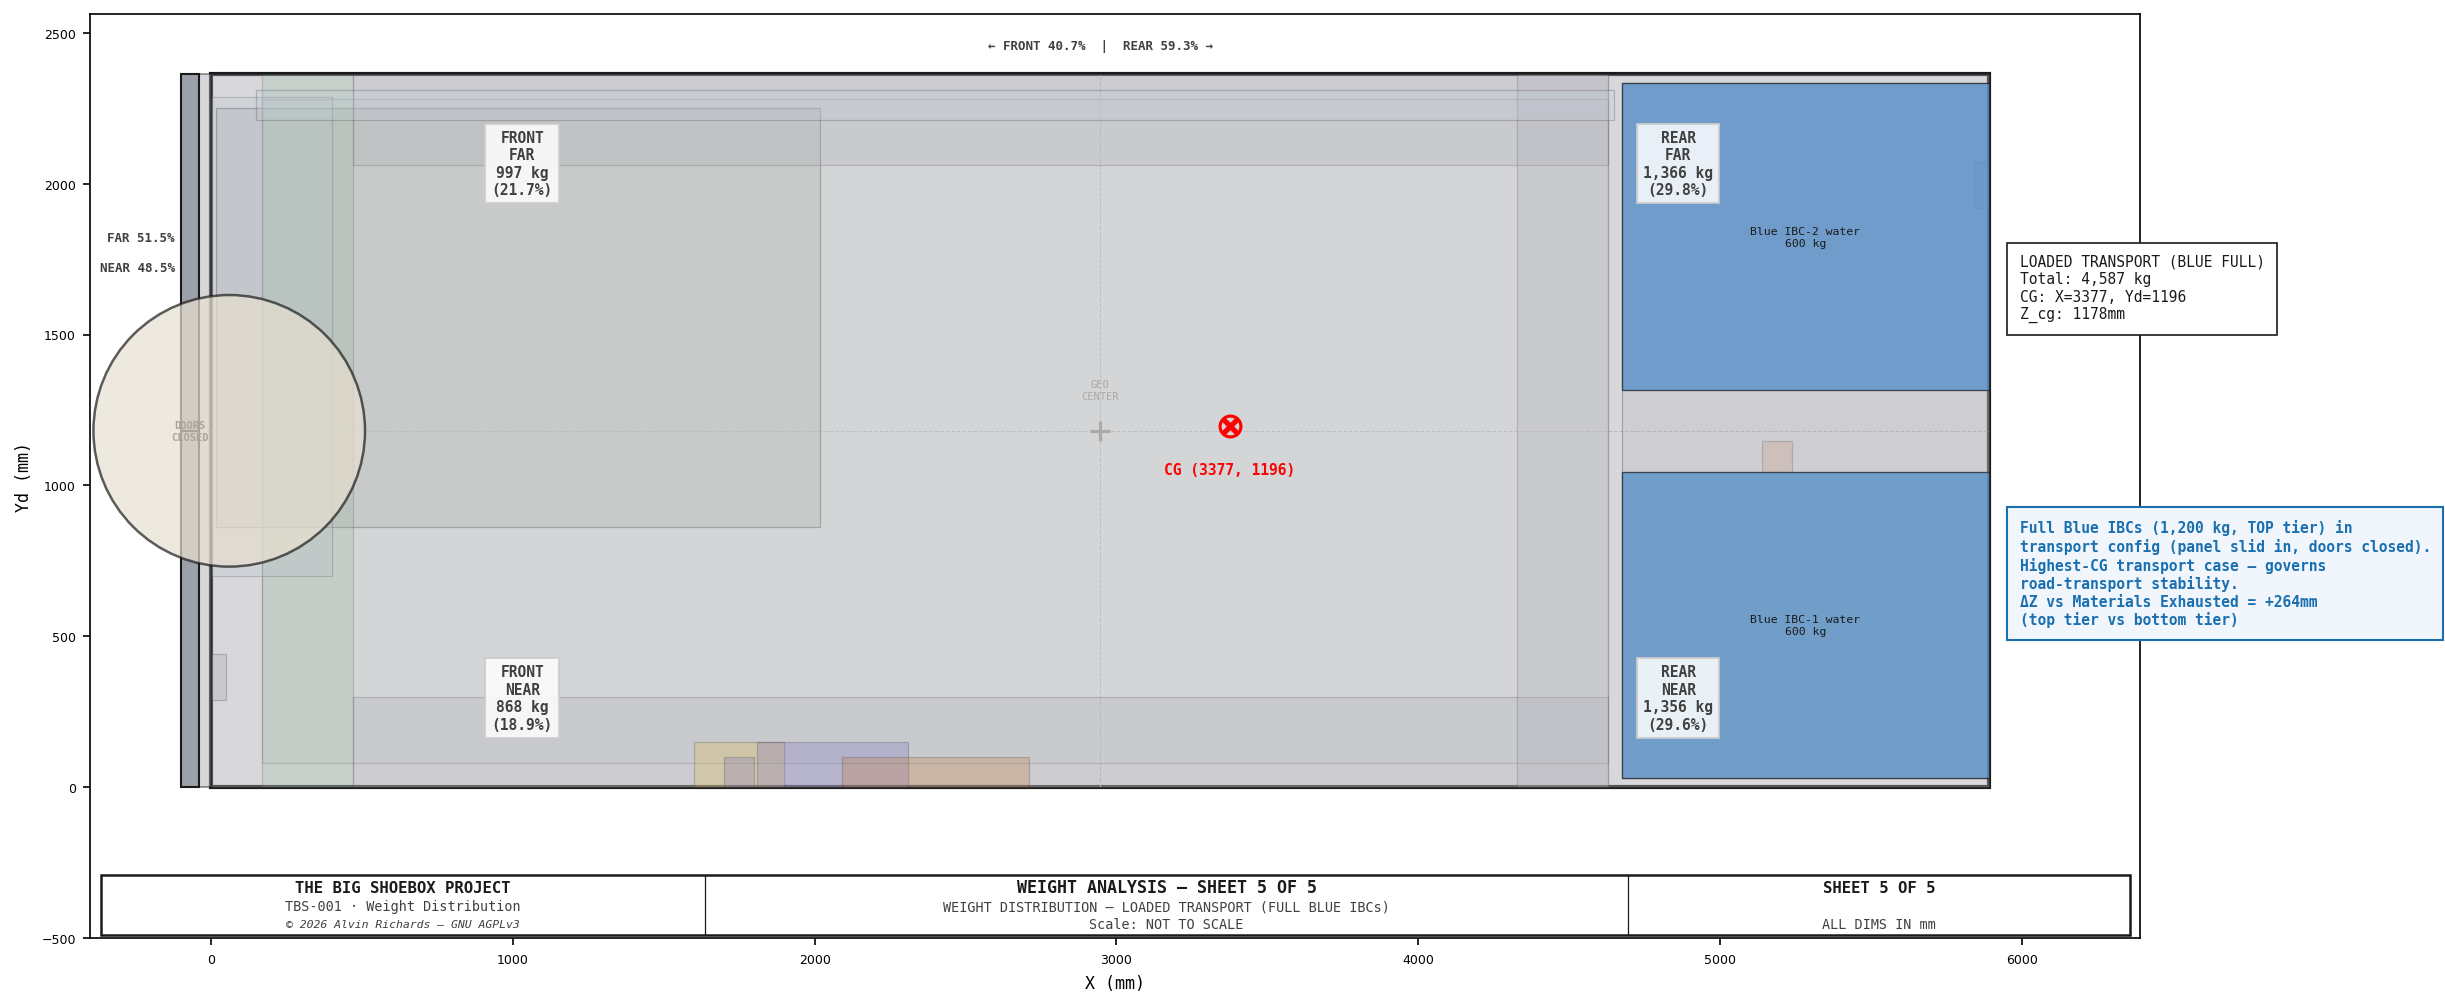
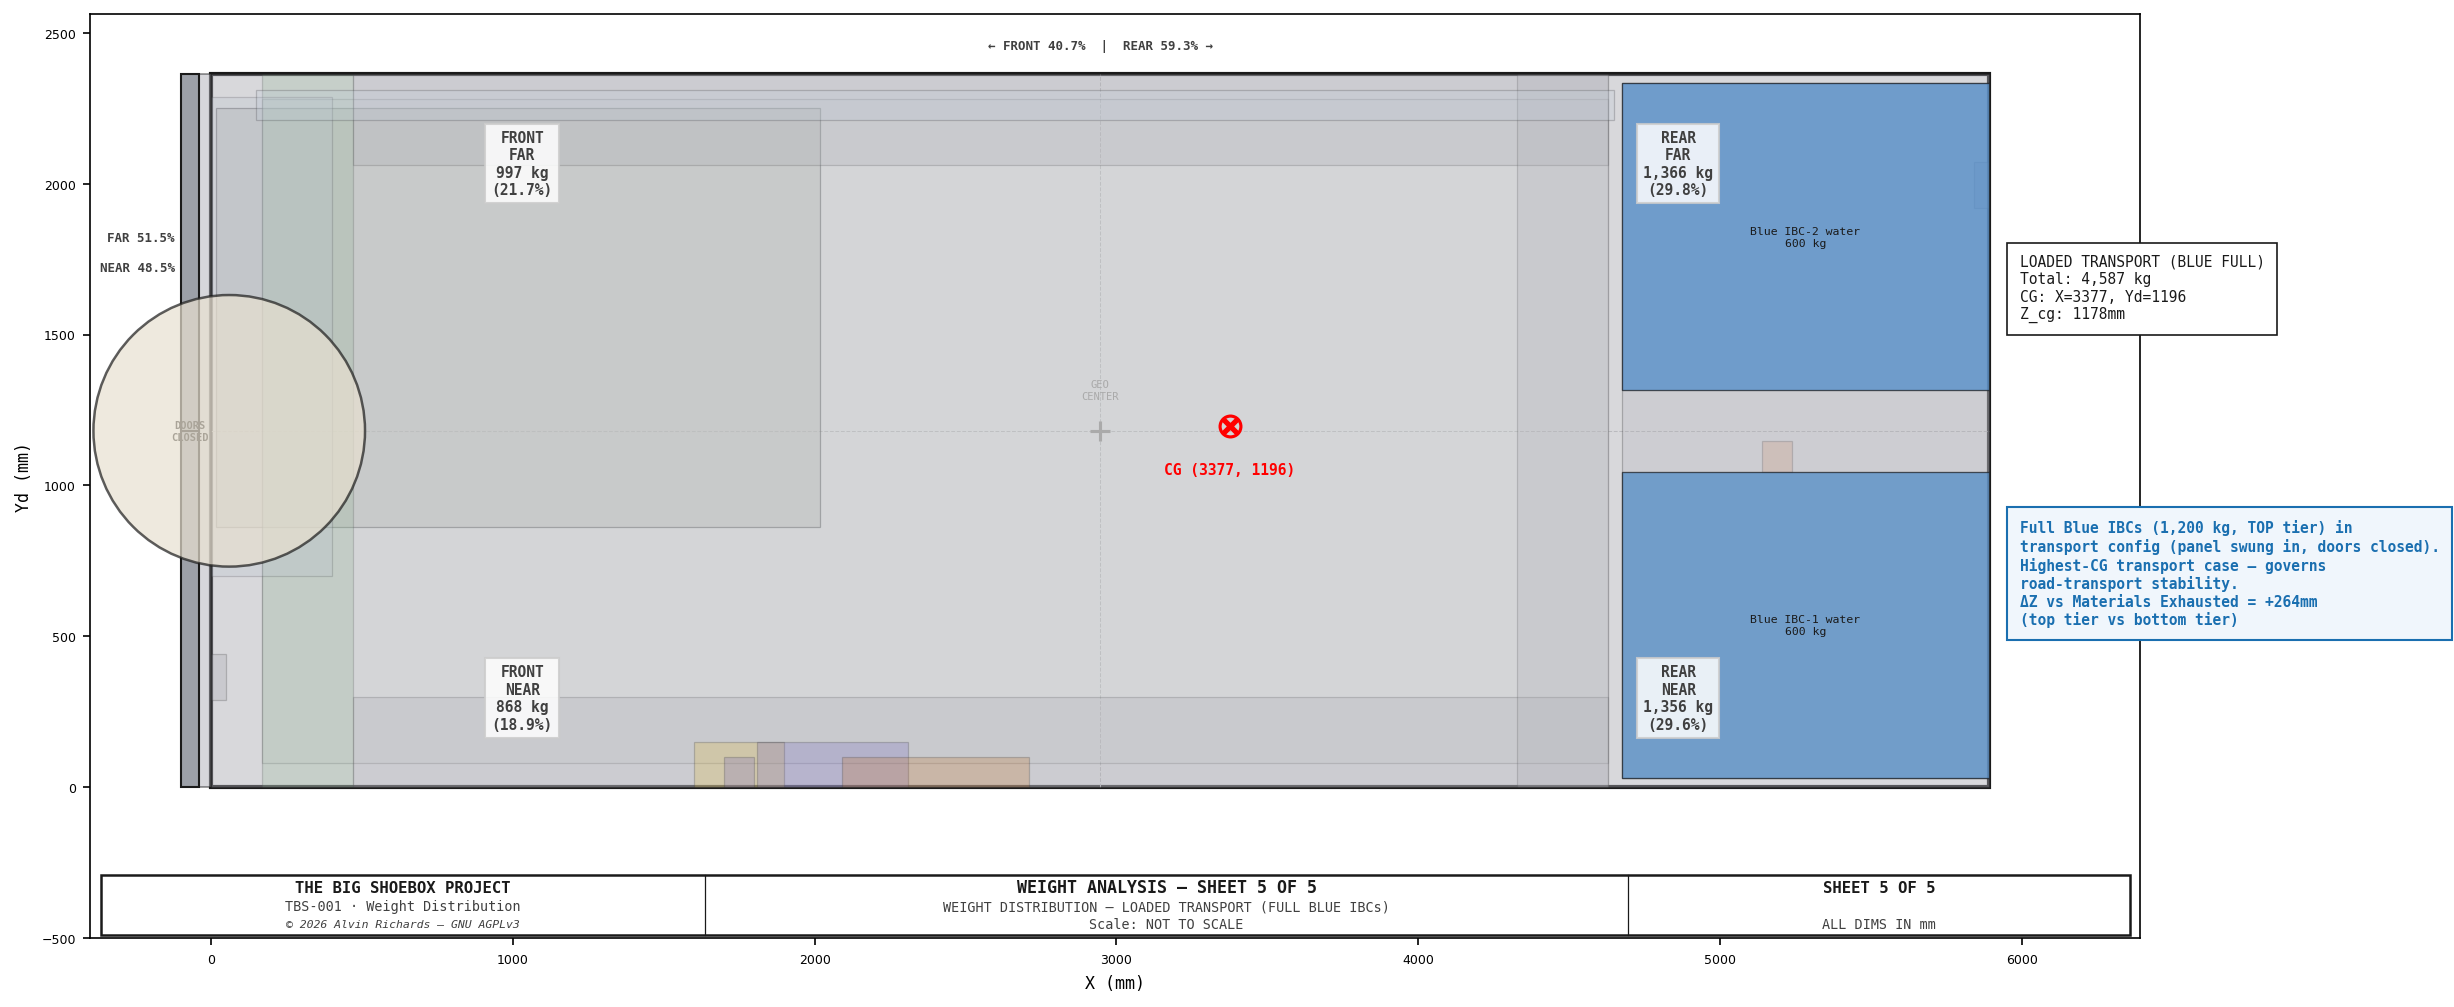
Stage 2 cleanup: fully retire the PANEL_SLIDE shim + last stale slide text
With every generator and model migrated off the slide, the deprecated
PANEL_SLIDE=880 shim has zero remaining consumers — removed the constant from
tbs_constants.py and the now-dead import from the overview model (generate_
sketchup_model.py; dead import only — no geometry change, no re-send needed).

Last stale slide text reworded to the swing:
- tbs_constants.py top docstring + the layout/walkway/Fan-B comment blocks
  ('panel slides 300mm' / 'sliding panel' / 'ceiling suspension rails' / 'panel
  transport envelope' → ~56° swing about the pivot)
- generate_weight_analysis.py sheet-5 subtitle + note ('panel slid in' → 'swung in')
- setup_docs.py index description ('sliding carriage' → '~56° transport swing')
- hingepanel sheet-3 comment header clarified (former HGR20 rails drawn faint as retired)

Note: component-dependency-map.md still describes the old lighttrap slide DC +
PANEL_SLIDE rows (§1.x/§4) — that is the Stage-5 dependency-map pass.

diff --git a/src/generators/tbs_constants.py b/src/generators/tbs_constants.py
@@ -28,9 +28,9 @@ Redesign basis (2026-05-03 rev 4):
   steel plate + 18mm ply) flanking 120mm center zone (unchanged RHS frame
   construction housing the light trap drum).  Step transitions at Yd=756mm
   and Yd=1606mm (drum 750mm + 50mm clearance each side).
-  Panel slides on HGR20 linear rails (300mm travel) so light trap drum clears
-  the container exterior face by 5mm, allowing standard ISO cargo doors to close.
-  Fixed door frame with EPDM compression seal at X=0.
+  Panel + drum SWING ~56° about the Ø89 pivot post for transport (rev10,
+  supersedes the HGR20 slide) so the assembly clears the container exterior face,
+  allowing standard ISO cargo doors to close. Fixed door frame with EPDM seal at X=0.
 
 Redesign basis (2026-05-06 rev 5):
   Waste drums (2x 55-gal) eliminated.  Replaced by a 4th IBC (waste, 600L)
@@ -191,11 +191,8 @@ PANEL_FLOOR_GAP   = 130   # gap between panel bottom edge and floor (mm) [+50 wa
                           # drum-revolve threshold sill and the swing-arc floor datum.
 # (Derived swing geometry — PIVOT_X/PIVOT_YD/FAR_STRIP_YD0/DRUM_CAGE_* — is defined just
 #  below, after the brace/drum/bay constants it reads from.)
-# ── TEMPORARY cascade shim ──────────────────────────────────────────────────
-# PANEL_SLIDE is retired with the slide scheme, but 8 generators + 3 models still import
-# it. Kept as a deprecated alias so they import while each is migrated to the swing; this
-# line is REMOVED in the final cascade step once no consumer references it.
-PANEL_SLIDE = 880   # DEPRECATED (rev10) — do not use; see SWING_LOCK_DEG / PIVOT_* / PANEL_CUT_YD
+# PANEL_SLIDE (the old 880mm slide travel) is fully retired (rev10) — all generators and
+# models have migrated to the swing; no consumer remains.
 
 # ── Left end zone — housed revolving-door light lock (rev 8) ─────────────────
 # Personnel light lock in the hinge-panel center zone: a FIXED Ø900 housing with
@@ -516,10 +513,10 @@ PROC_TRAY_SUMP_Z   = 20         # sump well depth below tray floor (mm)
 #       over tray rim to support walkway.  34mm clearance to IBC stack.
 #       Zero tray contact — posts on bare floor outside tray.
 #   Left walkway (cargo door end):  REMOVABLE LIFT-OUT — no wall brackets.
-#       Panel (hinged door) occupies the end wall at X=0 and slides inward
-#       300mm for transport.  Left walkway must be removed before panel slides.
+#       Panel (hinged door) occupies the end wall at X=0 and SWINGS ~56° about
+#       the pivot for transport.  Left walkway must be removed before the swing.
 #       Left corners use butt joints (no miter) so near/far walkways start at
-#       X=470 — entirely past the panel transport envelope (max X=420).
+#       X=470 — clear of the door-end panel swing sweep.
 #       Only the left walkway (X=170–470) needs removal for transport.
 #       Supported at ends by near/far walkway bracket arms at butt joints.
 #       Processing tray side (X=470): removable bearer beam (50×50×3mm Al RHS)
@@ -579,7 +576,7 @@ WALKWAY_NEAR_YD = 0                          # near edge against pinhole wall
 # Far walkway (film plane side): X=tray_L to tray_R, Yd=C_WID-WALKWAY_W to C_WID
 WALKWAY_FAR_YD  = C_WID - WALKWAY_W         # = 1962mm
 # Left walkway (cargo door end): X=tray_L to tray_L+WALKWAY_W, Yd=0 to C_WID
-# REMOVABLE — must be lifted out before sliding panel to transport position.
+# REMOVABLE — must be lifted out before the panel swings to its transport position.
 # Supported by FLOOR-LEG CANTILEVER brackets on the cargo-door side (rev 2026-06-07,
 # replaces the edge-beam-on-wall-seats): see the LEFT_WK_CANT_* block below + Sheet 5/6.
 # Zero processing tray contact — all supports outside or above the tray/bath.
@@ -703,9 +700,9 @@ FAN_B_H     = 600    # fan B center height AFF (mm — LOW; intake near floor)
 # Yd (width) positions — cross-ventilation diagonal: low intake (cargo-door
 # panel) to high exhaust (far end wall), diagonally across the volume.
 # rev 9 / B2: Fan A and Fan B SWAP sides (mirror about the centerline) so the
-# intake fan (Fan B, on the sliding panel) sits in the NEAR corner by the pinhole
-# wall — its conduit then runs along that wall and never crosses the ceiling
-# suspension rails (Yd=653/1709); only a flex whip bridges to the moving panel.
+# intake fan (Fan B, on the swinging panel) sits in the NEAR corner by the pinhole
+# wall — its conduit then runs along that wall; only a flex whip (with swing slack)
+# bridges to the swinging panel so it follows the ~56° transport rotation.
 FAN_A_YD    = (C_WID // 2 + DRUM_R + C_WID) // 2  # = 1996mm — far side, off the corner of the X=C_LEN end wall (moved from the pinhole side)
 FAN_B_YD    = (C_WID // 2 - DRUM_R) // 2          # = 365mm — near the pinhole wall, in the near corner zone clear of the drum (near edge Yd≈731)
 

diff --git a/src/generators/setup_docs.py b/src/generators/setup_docs.py
@@ -349,7 +349,7 @@ The container travels by commercial hire truck. No CDL required for the operator
 | [Weight Distribution](weight-distribution-report.md) | Container weight analysis — dry, camera ready, materials exhausted — CG positions and ISO compliance |
 | [Chemistry Prep Shelves](chemistry-prep-shelves.md) | Two fold-down shelves on pinhole wall for cyanotype chemistry mixing and materials staging |
 | [Processing Tray & Spray Bar](processing-tray-and-spray-bar.md) | 304 SS processing tray and telescoping spray bar gantry — construction, operation, and parts list |
-| [Hinged Light-Trap Panel](hinged-panel-report.md) | Stepped cargo-door panel with revolving drum light trap, sliding carriage, and light seal design |
+| [Hinged Light-Trap Panel](hinged-panel-report.md) | Stepped cargo-door panel with revolving drum light trap, ~56° transport swing about the pivot, and light seal design |
 | [IBC Stacking System](ibc-stacking-report.md) | 2×2 IBC stack with welded stacking frame, external plumbing panel, and internal pipe routing |
 | [Perimeter Walkway](walkway-report.md) | 4-section removable walkway system — wall-cantilevered, ceiling-hung, and lift-out designs with zero tray contact |
 | [Equipment Panel & Plumbing](equipment-panel-report.md) | Equipment panel in IBC corridor with 5 pumps, 3-stage filter skid, accumulator, valves, and pipe routing |

diff --git a/src/generators/generate_hingepanel_diagram.py b/src/generators/generate_hingepanel_diagram.py
@@ -929,10 +929,11 @@ def sheet3():
     dim_v(ax, WK_END + 30, H_FLOOR, WALKWAY_H,
           f"{WALKWAY_H}mm\nDECK", offset=30, fs=6)
 
-    # ── HGR20 sliding rails (floor + ceiling, both container walls) ──────────
-    # Rails run in the X (depth) direction, mounted on both side walls.
+    # ── Former HGR20 rails (rev10 RETIRED — drawn faint for reference) ───────
+    # The old slide rails ran in the X (depth) direction on both side walls.
     # In this Section A-A view (looking along Yd), the rails on both walls
-    # project to the same position.  Shown as side-profile rectangles.
+    # project to the same position. Shown faint as side-profile rectangles,
+    # labeled retired below (the panel now SWINGS about the Ø89 pivot).
     C_RAIL_S3 = "#CC4422"     # red, consistent with Sheet 1
     RAIL_PROF_H = 20          # rail profile height (mm)
     RAIL_PROF_L = 500         # rail length (mm) — 500mm HGR20 rail

diff --git a/src/generators/generate_weight_analysis.py b/src/generators/generate_weight_analysis.py
@@ -935,7 +935,7 @@ def sheet_loaded_transport(components):
     """Sheet 5: Loaded Transport — camera-ready water load in transport config.
 
     Heaviest top-tier case while configured for the road: full Blue IBCs
-    (1,200 kg) with the panel slid in and the cargo doors closed.
+    (1,200 kg) with the panel swung in and the cargo doors closed.
     """
     fig, ax = plt.subplots(figsize=(18, 8))
     total_lt, x_lt, yd_lt, z_lt = _draw_state_diagram(
@@ -946,7 +946,7 @@ def sheet_loaded_transport(components):
     exh_comps = filter_state(components, "exhausted")
     _, _, _, z_exh = compute_cg(exh_comps)
     note = (f"Full Blue IBCs (1,200 kg, TOP tier) in\n"
-            f"transport config (panel slid in, doors closed).\n"
+            f"transport config (panel swung in, doors closed).\n"
             f"Highest-CG transport case — governs\n"
             f"road-transport stability.\n"
             f"ΔZ vs Materials Exhausted = {z_lt - z_exh:+.0f}mm\n"

diff --git a/src/models/generate_sketchup_model.py b/src/models/generate_sketchup_model.py
@@ -54,7 +54,7 @@ from tbs_constants import (
     RAIL_X_L, RAIL_X_R, RAIL_LEN, RAIL_OFF, RAIL_OFF_BOT, FP_ANGLE_LEG,
     BRACE_RHS, BRACE_Z_BOT, BRACE_Z_TOP,
     BAY_FRONT_X, BAY_BACK_X, BAY_WALL_T,
-    PANEL_CENTER_T, PANEL_FLOOR_GAP, PANEL_SLIDE,
+    PANEL_CENTER_T, PANEL_FLOOR_GAP,
     PANEL_CORNER_YD_L, PANEL_CORNER_YD_R,
     PIVOT_X, PIVOT_YD, SWING_LOCK_DEG, PANEL_CUT_YD, FAR_STRIP_YD0,
     PIVOT_POST_OD, PIVOT_POST_T,
